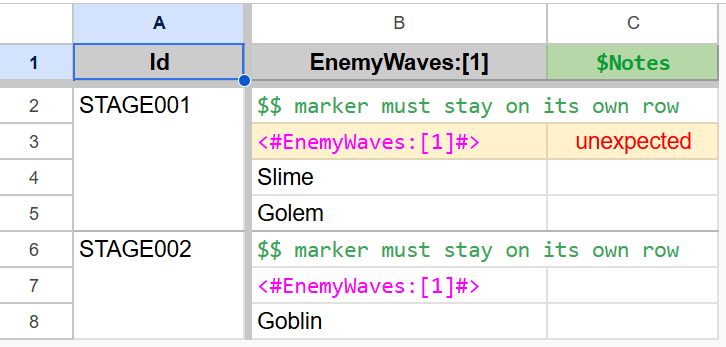
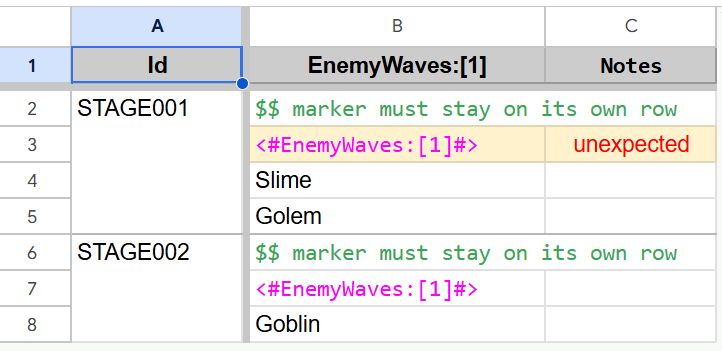
Document nested collection labels

diff --git a/docs/nested-collections.md b/docs/nested-collections.md
@@ -120,31 +120,31 @@ public VerticalList<VerticalList<VerticalList<string>>> Stages { get; private se
 |         | Dragon                               |
 </details>
 
-`Stages` is the named outermost list which contains stage lists. Each stage list contains wave lists, and each wave
-list contains enemy entries. The header `Stages:[2]` declares the two anonymous list components after the named outer
-list.
+`Stages` is the name of the outermost list which contains multiple stages. Each stage contains multiple waves,
+and each wave contains multiple enemies. The header `Stages:[2]` declares the two anonymous list components
+after the named outer list.
 
-`<#Stages:[1]#>` begins a stage list, while `<#Stages:[2]#>` begins a wave list within the current stage list. Every
-stage and wave list begins with its marker, including the first. Each marker occupies the `Stages:[2]` column by itself;
-every other cell in its row is blank. The markers are not entries; the enemy names are the entries stored by the
-innermost lists.
+`<#Stages:[1]#>` begins a stage, while `<#Stages:[2]#>` begins a wave within the current stage.
+Every stage and wave begins with its marker, including the first.
+Each marker occupies the `Stages:[2]` column by itself; every other cell in its row is blank.
+The markers are not data entries while the enemy names are, which are stored inside the innermost lists.
 
 <details>
 <summary><code>RAID001</code> list structure</summary>
 
 ```text
 Stages
-├─ Stage list 1  // <#Stages:[1]#>
-│  ├─ Wave list 1  // <#Stages:[2]#>
+├─ Stage 1          // <#Stages:[1]#>
+│  ├─ Wave 1        // <#Stages:[2]#>
 │  │  ├─ Slime
 │  │  └─ Archer
-│  └─ Wave list 2  // <#Stages:[2]#>
+│  └─ Wave 2        // <#Stages:[2]#>
 │     └─ Golem
-└─ Stage list 2  // <#Stages:[1]#>
-   ├─ Wave list 1  // <#Stages:[2]#>
+└─ Stage 2          // <#Stages:[1]#>
+   ├─ Wave 1        // <#Stages:[2]#>
    │  ├─ Goblin
    │  └─ Shaman
-   └─ Wave list 2  // <#Stages:[2]#>
+   └─ Wave 2        // <#Stages:[2]#>
       └─ Dragon
 ```
 </details>
@@ -157,6 +157,57 @@ The tables above show one raid containing two stage lists. Each stage list conta
     - The second stage list contains 2 wave lists:
         - The first wave list contains `Goblin` and `Shaman`.
         - The second wave list contains `Dragon`.
+
+## List Labelling
+
+During import, each nested list level can have a label. Its marker can use that label instead of repeating the full
+property path.
+
+![Sample List Labelling](../.github/images/sample_list_labelling.png)
+
+```csharp
+public VerticalList<VerticalList<VerticalList<string>>> Stages { get; private set; }
+```
+
+<details>
+<summary>Flat/Hybrid header</summary>
+
+| Id      | Stages:[stage]:[wave]                |
+| ------- | ------------------------------------ |
+| RAID001 | `$$ marker must stay on its own row` |
+|         | `<#[stage]#>`                        |
+|         | `<#[wave]#>`                         |
+|         | Slime                                |
+|         | `<#[wave]#>`                         |
+|         | Dragon                               |
+</details>
+
+<details>
+<summary>Split header</summary>
+
+| Id      | Stages                               |
+| ------- | ------------------------------------ |
+|         | `[stage]`                            |
+|         | `[wave]`                             |
+| RAID001 | `$$ marker must stay on its own row` |
+|         | `<#[stage]#>`                        |
+|         | `<#[wave]#>`                         |
+|         | Slime                                |
+|         | `<#[wave]#>`                         |
+|         | Dragon                               |
+</details>
+
+- `[label]` labels one nested list level. `<#[label]#>` starts that list.
+- A label starts with `A`–`Z`, `a`–`z`, or `_`. After that, it may also use `0`–`9`. Words such as `class` are valid
+  labels.
+- Labels are used exactly as written. Uppercase and lowercase are different. Import and export naming rules do not
+  change labels.
+- A label marker contains only one bracketed label. `<#Stages:[label]#>` is invalid. `<#Stages#>` remains a property
+  marker, not a label marker.
+- The same label can repeat across columns for the same level. Import fails if one label targets different levels or
+  one level has different labels.
+- Anonymous `[]`, numbered forms such as `[2]`, and full property markers remain supported.
+- Labels exist only while one page is imported. Export always writes anonymous selectors and full property markers.
 
 ## Dictionary in Dictionary
 
@@ -302,6 +353,63 @@ The tables above show two battles, each containing two reward dictionaries:
     - The first dictionary contains `250 Gold` and `1 Elixir`.
     - The second dictionary contains `3 Crystals`.
 
+## Dictionary Labelling
+
+During import, each nested dictionary level can have a label. Its marker can use that label instead of repeating the
+full property path.
+
+![Sample Dictionary Labelling](../.github/images/sample_dict_labelling.png)
+
+```csharp
+public VerticalList<VerticalDictionary<string, int>> WaveRewards { get; private set; }
+```
+
+<details>
+<summary>Flat header</summary>
+
+| Id        | WaveRewards:{rewards}:Key            | WaveRewards:{rewards}:Value |
+| --------- | ------------------------------------ | --------------------------- |
+| BATTLE001 | `$$ marker must stay on its own row` |                             |
+|           | `<#{rewards}#>`                      |                             |
+|           | Gold                                 | 100                         |
+|           | Gem                                  | 5                           |
+</details>
+
+<details>
+<summary>Split header</summary>
+
+| Id        | WaveRewards                          |       |
+| --------- | ------------------------------------ | ----- |
+|           | `{rewards}`                          |       |
+|           | Key                                  | Value |
+| BATTLE001 | `$$ marker must stay on its own row` |       |
+|           | `<#{rewards}#>`                      |       |
+|           | Gold                                 | 100   |
+|           | Gem                                  | 5     |
+</details>
+
+<details>
+<summary>Hybrid header</summary>
+
+| Id        | WaveRewards:{rewards}                |       |
+| --------- | ------------------------------------ | ----- |
+|           | Key                                  | Value |
+| BATTLE001 | `$$ marker must stay on its own row` |       |
+|           | `<#{rewards}#>`                      |       |
+|           | Gold                                 | 100   |
+|           | Gem                                  | 5     |
+</details>
+
+- `{label}` labels one nested dictionary level. `<#{label}#>` starts that dictionary.
+- Dictionary labels follow the same naming and case rules as list labels.
+- A label marker contains only one braced label. `<#WaveRewards:{label}#>` is invalid. `<#WaveRewards#>` remains a
+  property marker, not a label marker.
+- The same label can repeat across columns for the same level. Import fails if one label targets different levels or
+  one level has different labels.
+- List and dictionary labels are separate. `[items]` and `{items}` can target different levels.
+- Anonymous `{}` and full property markers remain supported.
+- Labels exist only while one page is imported. Export always writes anonymous selectors and full property markers.
+
 ## List in Dictionary
 
 A vertical dictionary can contain vertical lists, giving each key its own ordered sequence of values.
@@ -383,7 +491,7 @@ contain exactly one marker, with every other cell left blank.
 <details>
 <summary>Flat/Hybrid header</summary>
 
-| Id       | EnemyWaves:[1]                       | $Notes     |
+| Id       | EnemyWaves:[1]                       | Notes      |
 | -------- | ------------------------------------ | ---------- |
 | STAGE001 | `$$ marker must stay on its own row` |            |
 |          | `<#EnemyWaves:[1]#>`                 | unexpected |
@@ -397,7 +505,7 @@ contain exactly one marker, with every other cell left blank.
 <details>
 <summary>Split header</summary>
 
-| Id       | EnemyWaves                           | $Notes     |
+| Id       | EnemyWaves                           | Notes      |
 | -------- | ------------------------------------ | ---------- |
 |          | `[]`                                 |            |
 | STAGE001 | `$$ marker must stay on its own row` |            |
@@ -415,12 +523,12 @@ The table above shows how BakingSheet handles an invalid marker row:
 - Import resumes at the next nonblank `Id`, which is `STAGE002`.
 - The valid marker then begins `STAGE002`'s first nested list, which contains `Goblin`.
 
-## Complete Example
+## Complete Example 1
 
 This example models `RAID0001` as Acts → Chapters → Waves → Enemies. Each enemy also owns a vertical list of reward
 dictionaries, allowing separate common and rare reward pools.
 
-![Complete Nested Collections Sample](../.github/images/sample_complete_nested_collections.png)
+![Complete Nested Collections Sample 1](../.github/images/sample_complete_nested_collections_1.png)
 
 ```csharp
 public VerticalList<VerticalList<VerticalList<VerticalList<RaidEnemy>>>> Acts { get; private set; }
@@ -586,4 +694,177 @@ Acts
 |          |                                      | `<#Acts:[3]:RewardPools:{}#> $$ Dragon rewards` |       |
 |          |                                      | Gold                                            | 100   |
 |          |                                      | Dragon Scale                                    | 1     |
+</details>
+
+## Complete Example 2
+
+This example models the same `RAID0001` structure as Complete Example 1, but labels each nested collection level so
+its markers do not need to repeat the full property path.
+
+![Complete Nested Collections Sample 2](../.github/images/sample_complete_nested_collections_2.png)
+
+```csharp
+public VerticalList<VerticalList<VerticalList<VerticalList<RaidEnemy>>>> Acts { get; private set; }
+
+public sealed class RaidEnemy
+{
+    public string Name { get; private set; }
+    public VerticalList<VerticalDictionary<string, int>> RewardPools { get; private set; }
+}
+```
+
+- The list named `Acts` contains three labelled anonymous list levels:
+    - Label `[act]` begins an Act
+    - Label `[chapter]` begins a Chapter
+    - Label `[wave]` begins a Wave
+- A non-blank enemy `Name` begins an enemy entry inside the active Wave.
+- `<#{rewards}#>` begins a reward dictionary for the current enemy.
+- A non-blank reward `Key` begins an entry inside that dictionary.
+
+### Object Structure
+
+```text
+Acts
+├─ Act I                                      // <#[act]#>
+│  ├─ Chapter 1                               // <#[chapter]#>
+│  │  ├─ Wave 1                               // <#[wave]#>
+│  │  │  └─ Slime
+│  │  │     ├─ Reward dictionary 1            // <#{rewards}#>
+│  │  │     │  ├─ Gold: 10
+│  │  │     │  └─ Gel: 2
+│  │  │     └─ Reward dictionary 2            // <#{rewards}#>
+│  │  │        └─ Gem: 1
+│  │  └─ Wave 2                               // <#[wave]#>
+│  │     └─ Archer
+│  │        └─ Reward dictionary
+│  │           ├─ Gold: 15
+│  │           └─ Bow String: 1
+│  └─ Chapter 2                               // <#[chapter]#>
+│     └─ Wave 1                               // <#[wave]#>
+│        └─ Golem
+│           └─ Reward dictionary
+│              ├─ Gold: 25
+│              └─ Stone Core: 1
+└─ Act II                                     // <#[act]#>
+   └─ Chapter 1                               // <#[chapter]#>
+      └─ Wave 1                               // <#[wave]#>
+         └─ Dragon
+            └─ Reward dictionary
+               ├─ Gold: 100
+               └─ Dragon Scale: 1
+```
+
+### Markdown Representation
+
+<details>
+<summary>Flat header</summary>
+
+| Id       | Acts:[act]:[chapter]:[wave]:Name     | Acts:[act]:[chapter]:[wave]:RewardPools:{rewards}:Key | Acts:[act]:[chapter]:[wave]:RewardPools:{rewards}:Value |
+| -------- | ------------------------------------ | ----------------------------------------------------- | ------------------------------------------------------- |
+| RAID0001 | `$$ marker must stay on its own row` |                                                       |                                                         |
+|          | `<#[act]#> $$ Act I`                 |                                                       |                                                         |
+|          | `<#[chapter]#> $$ Chapter 1`         |                                                       |                                                         |
+|          | `<#[wave]#> $$ Wave 1`               |                                                       |                                                         |
+|          | Slime                                | `$$ marker must stay on its own row`                  |                                                         |
+|          |                                      | `<#{rewards}#> $$ Slime common`                       |                                                         |
+|          |                                      | Gold                                                  | 10                                                      |
+|          |                                      | Gel                                                   | 2                                                       |
+|          |                                      | `<#{rewards}#> $$ Slime rare`                         |                                                         |
+|          |                                      | Gem                                                   | 1                                                       |
+|          | `<#[wave]#> $$ Wave 2`               |                                                       |                                                         |
+|          | Archer                               | `$$ marker must stay on its own row`                  |                                                         |
+|          |                                      | `<#{rewards}#> $$ Archer rewards`                     |                                                         |
+|          |                                      | Gold                                                  | 15                                                      |
+|          |                                      | Bow String                                            | 1                                                       |
+|          | `<#[chapter]#> $$ Chapter 2`         |                                                       |                                                         |
+|          | `<#[wave]#> $$ Wave 1`               |                                                       |                                                         |
+|          | Golem                                | `$$ marker must stay on its own row`                  |                                                         |
+|          |                                      | `<#{rewards}#> $$ Golem rewards`                      |                                                         |
+|          |                                      | Gold                                                  | 25                                                      |
+|          |                                      | Stone Core                                            | 1                                                       |
+|          | `<#[act]#> $$ Act II`                |                                                       |                                                         |
+|          | `<#[chapter]#> $$ Chapter 1`         |                                                       |                                                         |
+|          | `<#[wave]#> $$ Wave 1`               |                                                       |                                                         |
+|          | Dragon                               | `$$ marker must stay on its own row`                  |                                                         |
+|          |                                      | `<#{rewards}#> $$ Dragon rewards`                     |                                                         |
+|          |                                      | Gold                                                  | 100                                                     |
+|          |                                      | Dragon Scale                                          | 1                                                       |
+</details>
+
+<details>
+<summary>Split header</summary>
+
+| Id       | Acts                                 |                                      |       |
+| -------- | ------------------------------------ | ------------------------------------ | ----- |
+|          | `[act]`                              |                                      |       |
+|          | `[chapter]`                          |                                      |       |
+|          | `[wave]`                             |                                      |       |
+|          | Name                                 | RewardPools                          |       |
+|          |                                      | `{rewards}`                          |       |
+|          |                                      | Key                                  | Value |
+| RAID0001 | `$$ marker must stay on its own row` |                                      |       |
+|          | `<#[act]#> $$ Act I`                 |                                      |       |
+|          | `<#[chapter]#> $$ Chapter 1`         |                                      |       |
+|          | `<#[wave]#> $$ Wave 1`               |                                      |       |
+|          | Slime                                | `$$ marker must stay on its own row` |       |
+|          |                                      | `<#{rewards}#> $$ Slime common`      |       |
+|          |                                      | Gold                                 | 10    |
+|          |                                      | Gel                                  | 2     |
+|          |                                      | `<#{rewards}#> $$ Slime rare`        |       |
+|          |                                      | Gem                                  | 1     |
+|          | `<#[wave]#> $$ Wave 2`               |                                      |       |
+|          | Archer                               | `$$ marker must stay on its own row` |       |
+|          |                                      | `<#{rewards}#> $$ Archer rewards`    |       |
+|          |                                      | Gold                                 | 15    |
+|          |                                      | Bow String                           | 1     |
+|          | `<#[chapter]#> $$ Chapter 2`         |                                      |       |
+|          | `<#[wave]#> $$ Wave 1`               |                                      |       |
+|          | Golem                                | `$$ marker must stay on its own row` |       |
+|          |                                      | `<#{rewards}#> $$ Golem rewards`     |       |
+|          |                                      | Gold                                 | 25    |
+|          |                                      | Stone Core                           | 1     |
+|          | `<#[act]#> $$ Act II`                |                                      |       |
+|          | `<#[chapter]#> $$ Chapter 1`         |                                      |       |
+|          | `<#[wave]#> $$ Wave 1`               |                                      |       |
+|          | Dragon                               | `$$ marker must stay on its own row` |       |
+|          |                                      | `<#{rewards}#> $$ Dragon rewards`    |       |
+|          |                                      | Gold                                 | 100   |
+|          |                                      | Dragon Scale                         | 1     |
+</details>
+
+<details>
+<summary>Hybrid header</summary>
+
+| Id       | Acts:[act]:[chapter]:[wave]          |                                      |       |
+| -------- | ------------------------------------ | ------------------------------------ | ----- |
+|          | Name                                 | RewardPools:{rewards}                |       |
+|          |                                      | Key                                  | Value |
+| RAID0001 | `$$ marker must stay on its own row` |                                      |       |
+|          | `<#[act]#> $$ Act I`                 |                                      |       |
+|          | `<#[chapter]#> $$ Chapter 1`         |                                      |       |
+|          | `<#[wave]#> $$ Wave 1`               |                                      |       |
+|          | Slime                                | `$$ marker must stay on its own row` |       |
+|          |                                      | `<#{rewards}#> $$ Slime common`      |       |
+|          |                                      | Gold                                 | 10    |
+|          |                                      | Gel                                  | 2     |
+|          |                                      | `<#{rewards}#> $$ Slime rare`        |       |
+|          |                                      | Gem                                  | 1     |
+|          | `<#[wave]#> $$ Wave 2`               |                                      |       |
+|          | Archer                               | `$$ marker must stay on its own row` |       |
+|          |                                      | `<#{rewards}#> $$ Archer rewards`    |       |
+|          |                                      | Gold                                 | 15    |
+|          |                                      | Bow String                           | 1     |
+|          | `<#[chapter]#> $$ Chapter 2`         |                                      |       |
+|          | `<#[wave]#> $$ Wave 1`               |                                      |       |
+|          | Golem                                | `$$ marker must stay on its own row` |       |
+|          |                                      | `<#{rewards}#> $$ Golem rewards`     |       |
+|          |                                      | Gold                                 | 25    |
+|          |                                      | Stone Core                           | 1     |
+|          | `<#[act]#> $$ Act II`                |                                      |       |
+|          | `<#[chapter]#> $$ Chapter 1`         |                                      |       |
+|          | `<#[wave]#> $$ Wave 1`               |                                      |       |
+|          | Dragon                               | `$$ marker must stay on its own row` |       |
+|          |                                      | `<#{rewards}#> $$ Dragon rewards`    |       |
+|          |                                      | Gold                                 | 100   |
+|          |                                      | Dragon Scale                         | 1     |
 </details>
